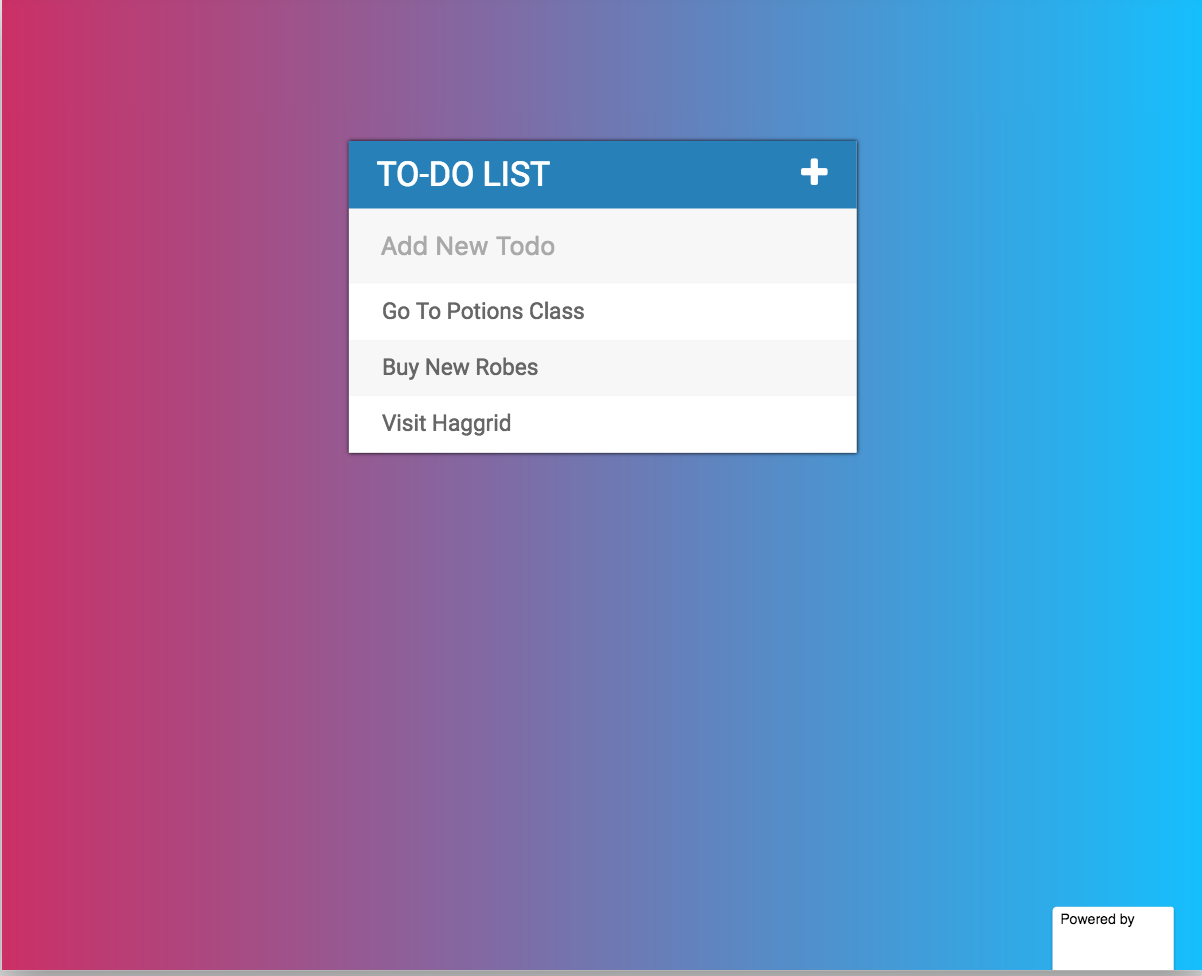
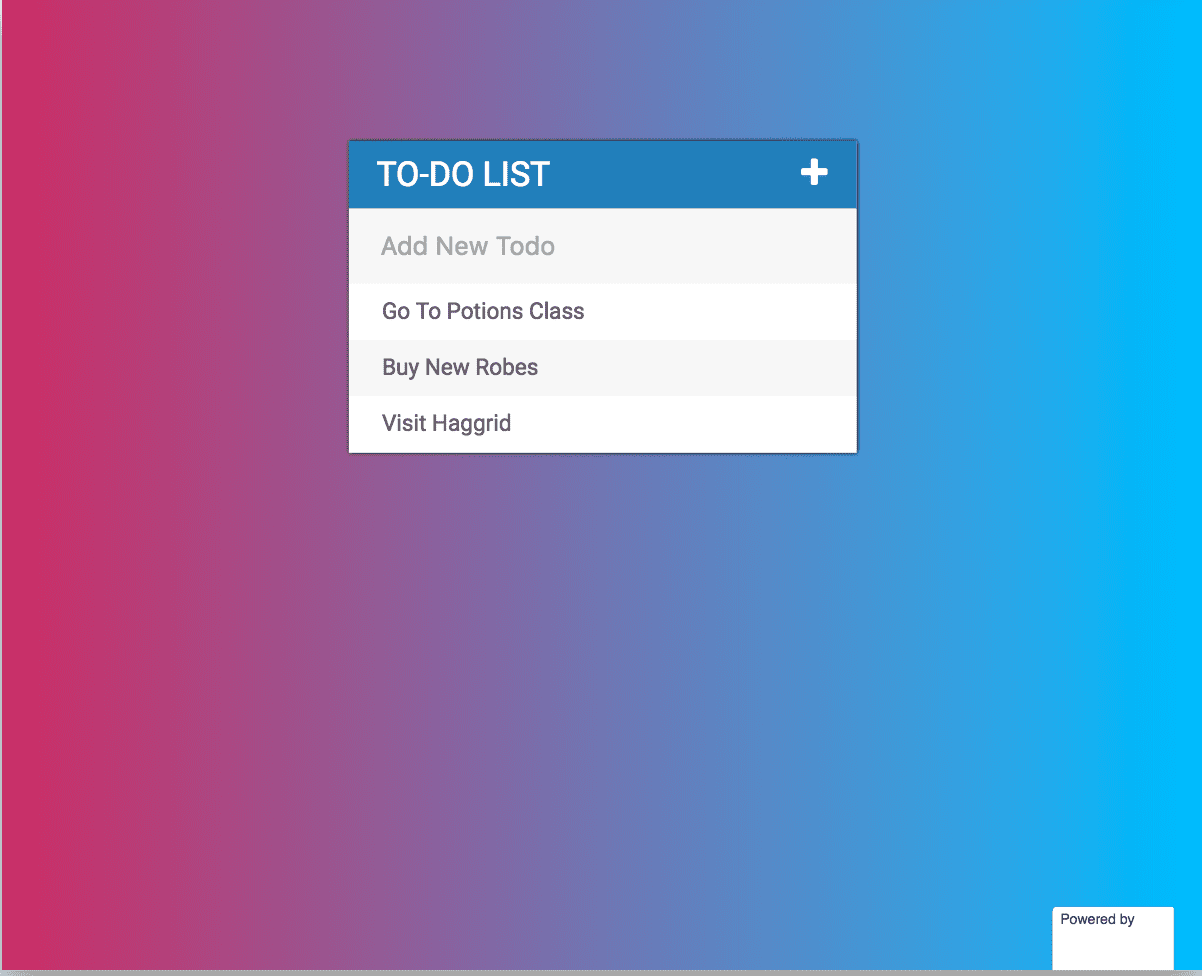
compress images
-compress images

-change image and link to magic-8-ball

Changed region(s): [[0.8927, 0.0, 0.985, 1.0]]

diff --git a/index.html b/index.html
@@ -97,8 +97,8 @@
                 </div>
                 <div class="col-lg-4 col-sm-6 ">
                     <div class="thumbnail project">
-                        <a href="http://codepen.io/JessMarie/pen/QKyOGA" target="blank">
-                            <img src="https://source.unsplash.com/TYVVKXO7-S0/1600x900/">
+                        <a href="https://jess-alexander.github.io/Magic8Ball/" target="blank">
+                            <img src="img/magic-8-ball.png">
                         </a>
                     </div>
                 </div>
@@ -108,7 +108,7 @@
         <section id="contact" class="row">
             <div class="col-sm-6 col-xs-12 ">
                 <div class="thumbnail">
-                    <img id="contact-img" src="img/headshot2.jpg" alt="Jess Alexander headshot" />
+                    <img id="contact-img" src="img/headshot.jpg" alt="Jess Alexander headshot" />
                 </div>
             </div>
             <div class="col-sm-6 col-xs-12 text-center" id="connect">
